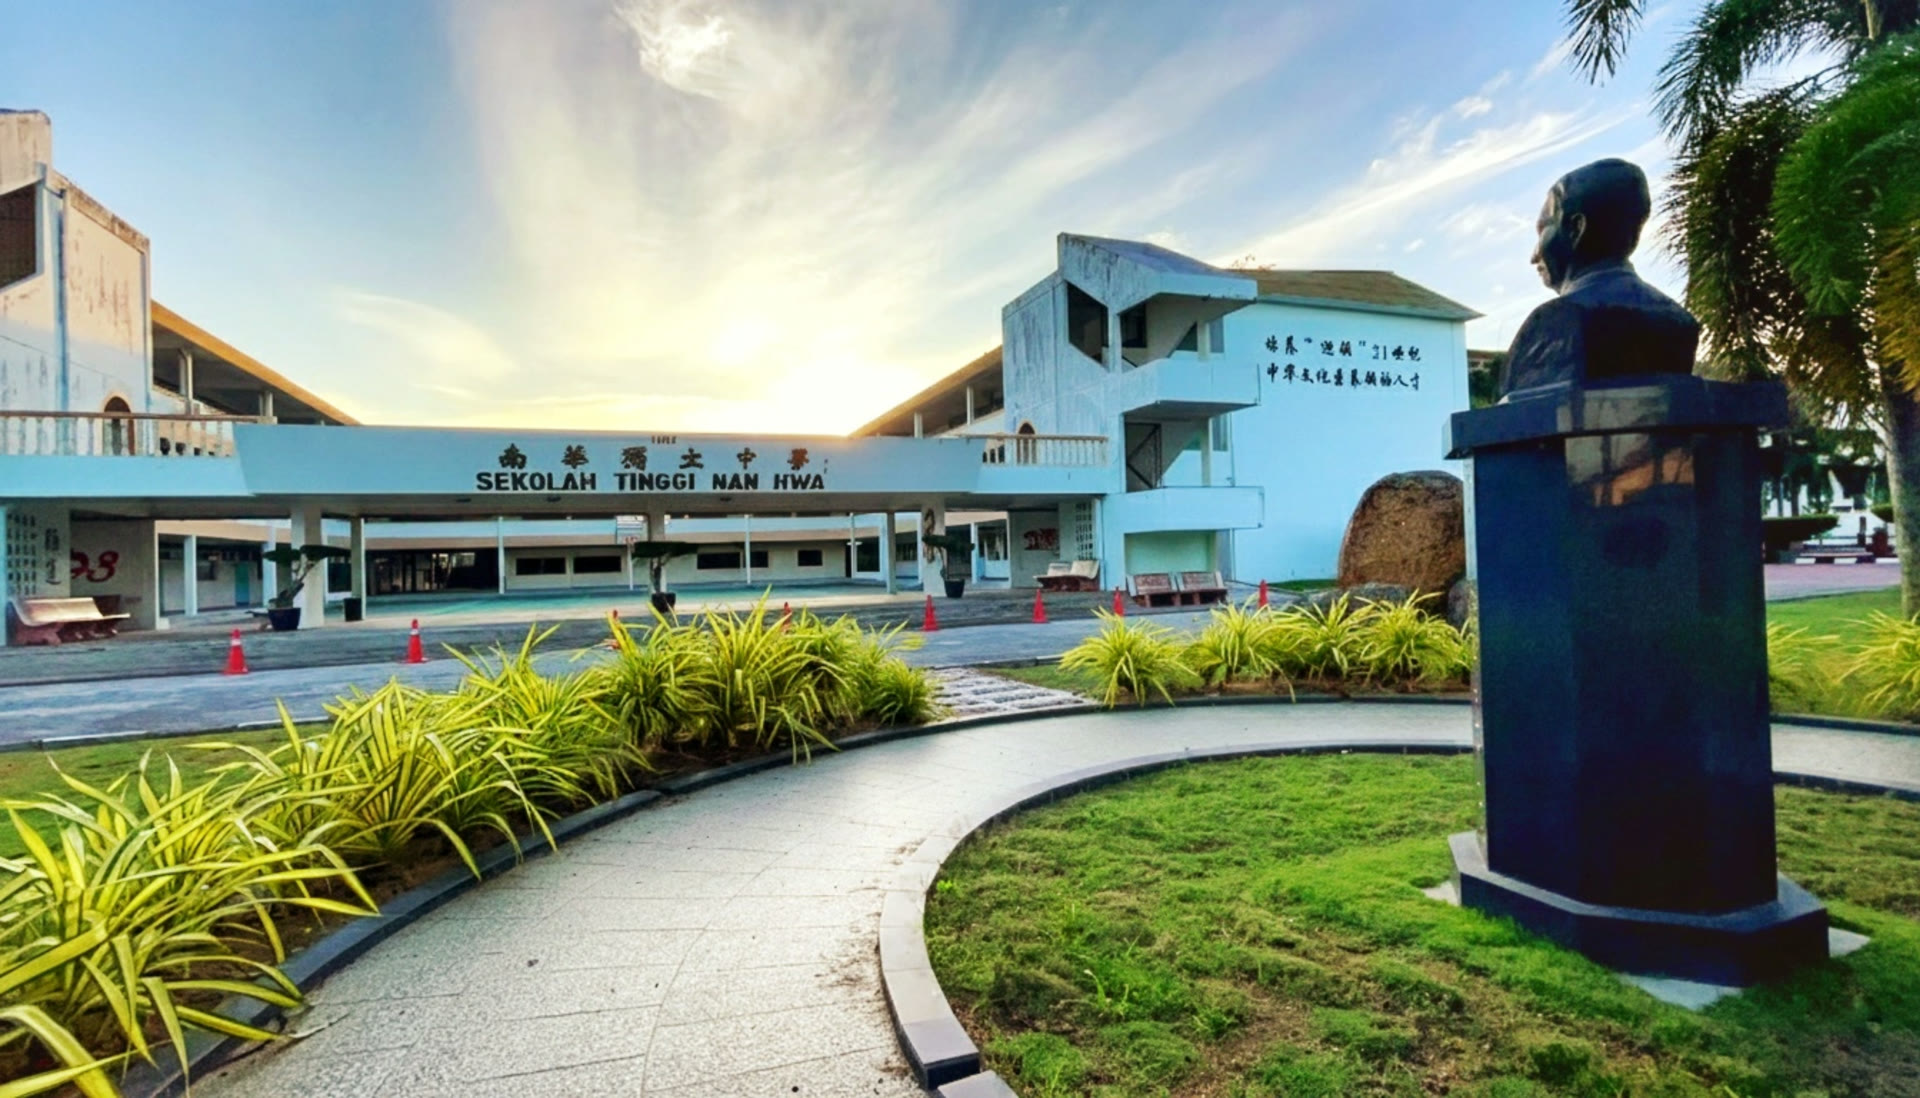
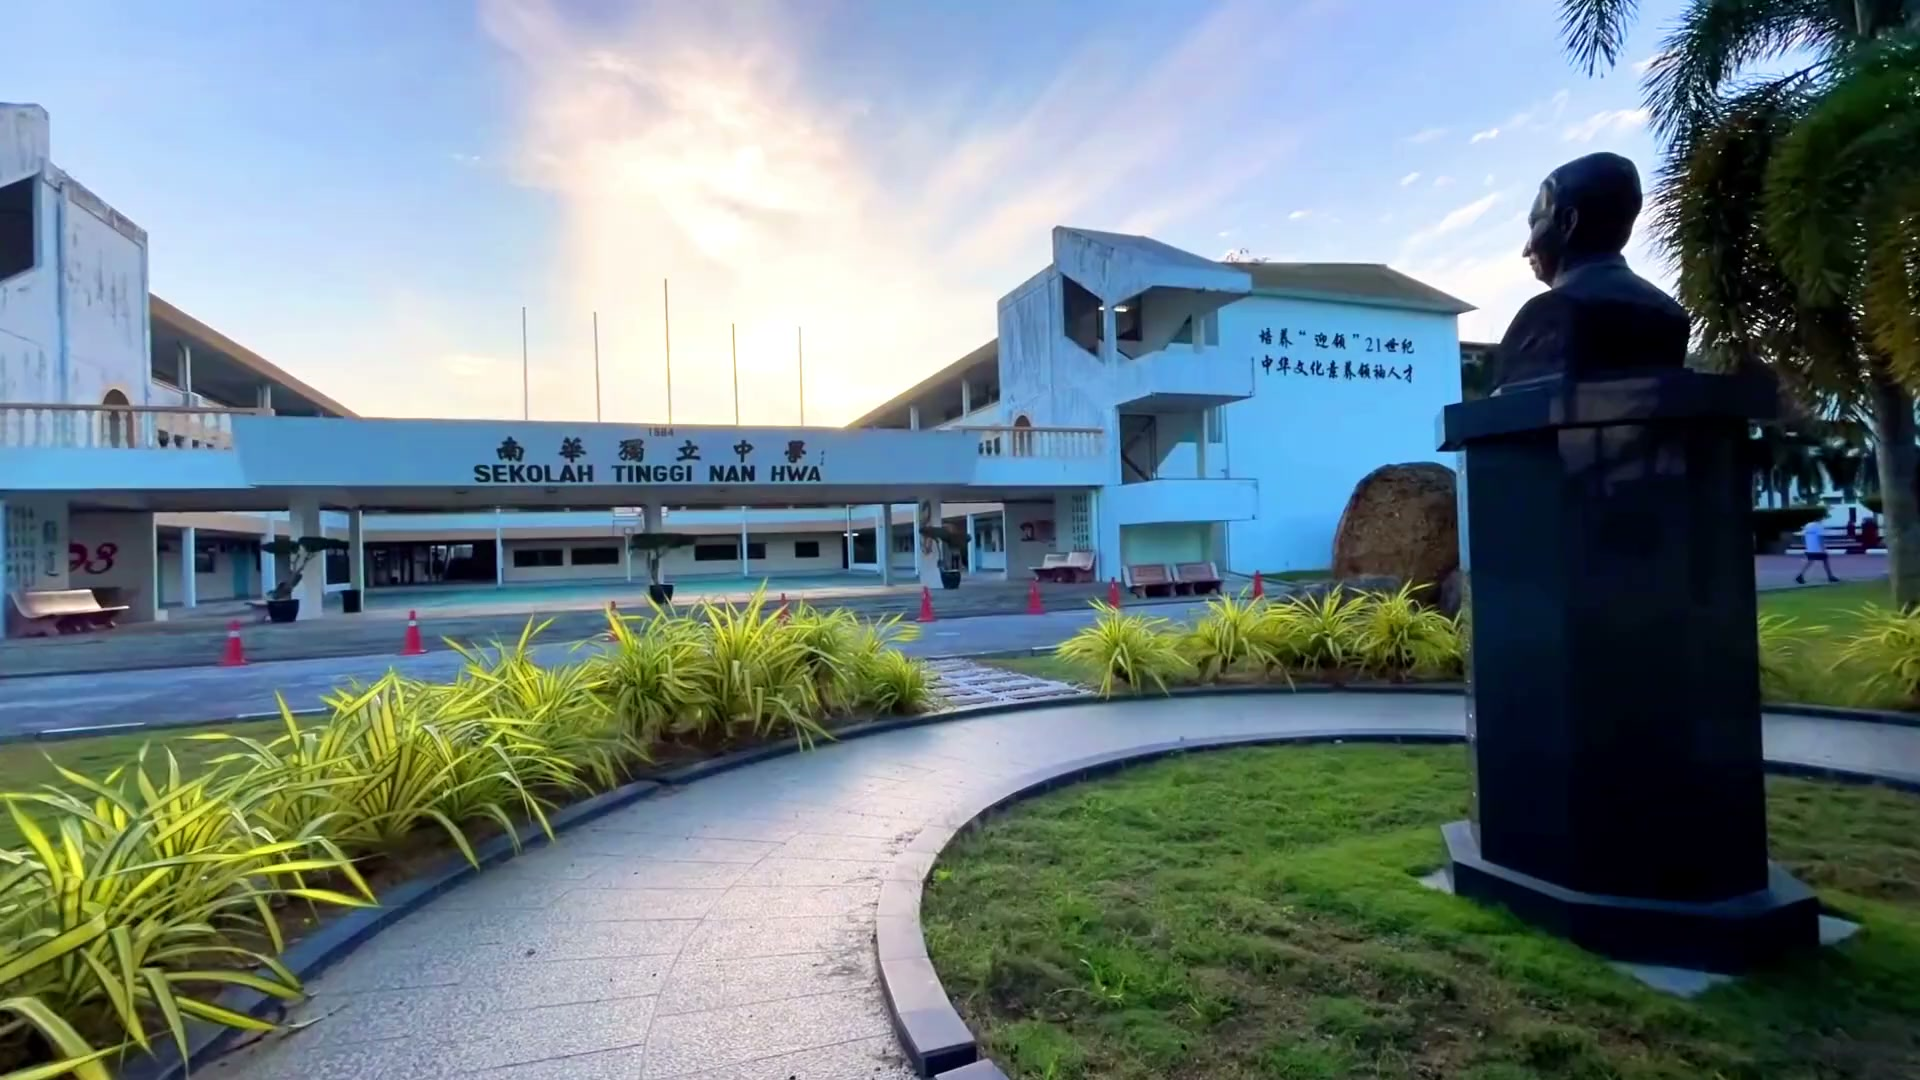
Hero 第四轮定稿：第四版防抖调色视频 + 90徽标 + impeccable 审改
- 视频换第四版素材（CRF27/25fps/去音轨/4.95MB），poster 同步重生成
- 循环转场改单video渐暗2.4s-黑场-从头重播，弃双video交叉淡入
- 彩绘90徽标抠图进顶栏（黑底转透明），冗余文字pill删除
- 减法：kicker灰框删除；报读资讯改磨砂芥末黄钮居报名左侧；门标签5格，南华春秋改指history/
- impeccable polish：玻璃统一blur14、文案区与门轨左缘对齐、动效降噪、正文≥14px、h1光晕减半
- .impeccable/ 审查档案不入仓

diff --git a/index.html b/index.html
@@ -33,6 +33,10 @@ img { max-width:100%; display:block; }
 .hero .scrim { position:absolute; inset:0; pointer-events:none;
   background:linear-gradient(to top, rgba(6,16,10,.82) 0%, rgba(6,16,10,.34) 34%, rgba(6,16,10,.06) 58%, rgba(6,16,10,.3) 100%); }
 #dust { position:absolute; inset:0; width:100%; height:100%; z-index:4; pointer-events:none; }
+/* 循环转场：片尾渐渐暗下来，黑场停一拍，再从头天亮（用户裁决：拉长转场，别紧凑倒带） */
+.hero .fade { position:absolute; inset:0; z-index:3; background:#06100a; opacity:0;
+  pointer-events:none; transition:opacity 2.4s ease; }
+.hero .fade.on { opacity:1; }
 
 .topbar { position:absolute; top:0; left:0; right:0; z-index:6;
   display:flex; align-items:center; justify-content:space-between;
@@ -43,70 +47,54 @@ img { max-width:100%; display:block; }
 .brand b { font-family:var(--serif); font-weight:700; font-size:1.22rem; letter-spacing:.08em;
   text-shadow:0 1px 8px rgba(0,0,0,.55); }
 .brand small { font-size:.72rem; letter-spacing:.22em; color:#d7eadf; opacity:.85; }
-/* 导航加雾面底座提高存在感（用户反馈：顶部的字容易被忽略） */
-.topbar nav { display:flex; gap:1.5rem; align-items:center; padding:.5rem 1.4rem; border-radius:999px;
-  background:rgba(6,16,10,.42); backdrop-filter:blur(14px); -webkit-backdrop-filter:blur(14px);
-  border:1px solid rgba(255,255,255,.2); box-shadow:inset 0 1px 0 rgba(255,255,255,.16); }
-.topbar nav a { color:#fff; font-size:1.02rem; font-weight:600; text-decoration:none;
-  text-shadow:0 1px 6px rgba(0,0,0,.55); padding-bottom:2px; }
-.topbar nav a:hover { border-bottom:2px solid var(--green); }
-a.badge90 { border:1px solid rgba(232,184,75,.7); color:var(--gold); font-size:.82rem; font-weight:700;
-  padding:.32rem .9rem; border-radius:999px; letter-spacing:.14em; text-shadow:none;
-  background:rgba(232,184,75,.12); transition:background .2s ease; }
-a.badge90:hover { background:rgba(232,184,75,.28); border-bottom:none; }
+.topbar nav { display:flex; gap:1.6rem; align-items:center; }
+.logo90 img { height:58px; width:auto; filter:drop-shadow(0 2px 8px rgba(0,0,0,.5));
+  transition:transform .2s ease; }
+.logo90:hover img { transform:scale(1.06); }
 
 .hero .content { position:absolute; z-index:5; left:0; right:0;
   bottom:clamp(8.5rem, 20vh, 12rem);
-  padding:0 clamp(1.2rem,5vw,4.5rem); max-width:1180px; }
-.kicker { display:inline-flex; flex-wrap:wrap; align-items:baseline; column-gap:.9em; row-gap:.3em;
-  font-family:var(--serif); font-weight:600;
-  font-size:clamp(.78rem, .6rem + .55vw, .95rem); letter-spacing:.22em; color:#eef7f1;
-  margin-bottom:1.2rem; text-shadow:0 1px 6px rgba(0,0,0,.6);
-  padding:.45em 1.1em .45em 1.2em; border-radius:999px;
-  background:rgba(6,16,10,.38); backdrop-filter:blur(12px); -webkit-backdrop-filter:blur(12px);
-  border:1px solid rgba(255,255,255,.18); box-shadow:inset 0 1px 0 rgba(255,255,255,.16); }
-.kicker span { white-space:nowrap; }
-.kicker .dot { color:var(--gold); letter-spacing:0; }
-.kicker em { font-style:normal; color:var(--gold); }
+  padding:0 clamp(1rem,3vw,2.6rem); max-width:1180px; }
+/* 左内容块：再缩一档（100% 时覆盖层仍偏大；kicker 灰框已按减法裁决删除） */
 .hero h1 { font-family:var(--serif); font-weight:900;
-  font-size:clamp(2.3rem, 6vw, 4.6rem); line-height:1.22; letter-spacing:.03em;
-  text-shadow:0 2px 20px rgba(0,0,0,.55), 0 0 26px rgba(255,244,214,.4); }
+  font-size:clamp(1.35rem, 2.4vw, 2rem); line-height:1.3; letter-spacing:.03em;
+  text-shadow:0 1px 10px rgba(0,0,0,.55), 0 0 14px rgba(255,244,214,.35); }
 .hero h1 .light { color:var(--gold);
-  text-shadow:0 2px 20px rgba(0,0,0,.5), 0 0 30px rgba(232,184,75,.6); }
-/* 副文案：雾面半透明金边框面板（用户反馈：直接压在视频上不易读） */
-.hero .sub { margin-top:1.15rem; font-size:clamp(.92rem, .8rem + .5vw, 1.08rem); color:#f4f0e5;
-  max-width:34em; line-height:2; padding:.9rem 1.3rem; border-radius:1rem;
-  background:rgba(6,16,10,.46); backdrop-filter:blur(14px); -webkit-backdrop-filter:blur(14px);
-  border:1px solid rgba(232,184,75,.42); box-shadow:inset 0 1px 0 rgba(255,255,255,.14);
-  text-shadow:0 1px 8px rgba(0,0,0,.5); }
-.hero .cta { margin-top:1.7rem; display:flex; gap:.9rem; flex-wrap:wrap; }
-.btn { display:inline-block; padding:.78rem 1.9rem; border-radius:999px; font-weight:700; font-size:.98rem;
+  text-shadow:0 1px 10px rgba(0,0,0,.5), 0 0 16px rgba(232,184,75,.55); }
+/* 副文案：衬线体+纯文字阴影（用户裁决：默认黑体太一般；不加面板）。下限 14px 可读性地板 */
+.hero .sub { margin-top:.8rem; font-family:var(--serif); font-weight:600;
+  font-size:clamp(.875rem, .82rem + .2vw, .95rem); color:#f0ece1;
+  max-width:36em; line-height:1.9;
+  text-shadow:0 1px 3px rgba(0,0,0,.85), 0 2px 14px rgba(0,0,0,.6); }
+.hero .cta { margin-top:1rem; display:flex; gap:.7rem; flex-wrap:wrap; }
+.btn { display:inline-block; padding:.55rem 1.35rem; border-radius:999px; font-weight:700; font-size:.875rem;
   text-decoration:none; backdrop-filter:blur(14px); -webkit-backdrop-filter:blur(14px);
   transition:transform .18s ease, background .18s ease; }
 .btn:hover { transform:translateY(-2px); }
-.btn-solid { background:rgba(62,179,112,.8); color:#fff; border:1px solid rgba(255,255,255,.28);
-  box-shadow:0 6px 22px rgba(62,179,112,.32), inset 0 1px 0 rgba(255,255,255,.4); }
-.btn-solid:hover { background:rgba(46,144,89,.92); }
-.btn-line { border:1px solid rgba(255,255,255,.45); color:#fff; background:rgba(255,255,255,.08);
-  box-shadow:inset 0 1px 0 rgba(255,255,255,.35); }
-.btn-line:hover { background:rgba(255,255,255,.16); }
+/* 两钮回归半透明磨砂质感（用户裁决：实色块最突兀难看） */
+.btn-solid { background:rgba(62,179,112,.5); color:#fff; border:1px solid rgba(255,255,255,.35);
+  box-shadow:inset 0 1px 0 rgba(255,255,255,.3); text-shadow:0 1px 4px rgba(0,0,0,.35); }
+.btn-solid:hover { background:rgba(62,179,112,.72); }
+.btn-mustard { background:rgba(212,164,38,.32); color:#ffedbe; border:1px solid rgba(232,184,75,.6);
+  box-shadow:inset 0 1px 0 rgba(255,255,255,.3); text-shadow:0 1px 4px rgba(0,0,0,.4); }
+.btn-mustard:hover { background:rgba(212,164,38,.52); color:#fff6dd; }
 
 /* 五个文件夹标签：微微冒头，靠近才升起 */
 .doors { position:absolute; z-index:5; left:0; right:0; bottom:0;
   display:grid; grid-template-columns:repeat(5, 1fr); gap:.6rem; align-items:end;
-  padding:0 clamp(.8rem, 2vw, 2rem); }
+  padding:0 clamp(1rem, 3vw, 2.6rem); }
 .door { --peek:3.3rem; display:block; color:#fff; overflow:hidden; text-decoration:none;
   border-radius:.9rem .9rem 0 0;
-  background:rgba(8,20,13,.55); backdrop-filter:blur(16px); -webkit-backdrop-filter:blur(16px);
-  border:1px solid rgba(255,255,255,.16); border-bottom:none;
+  background:rgba(8,20,13,.5); backdrop-filter:blur(14px); -webkit-backdrop-filter:blur(14px);
+  border:1px solid rgba(255,255,255,.18); border-bottom:none;
   box-shadow:inset 0 1px 0 rgba(255,255,255,.18);
   padding:.95rem 1.15rem 1.15rem;
   transform:translateY(calc(100% - var(--peek)));
   transition:transform .38s cubic-bezier(.22,.8,.3,1), background .3s ease;
-  animation:doorBreath 5s ease-in-out infinite; }
+  animation:doorBreath 7s ease-in-out infinite; }
 @keyframes doorBreath {
   0%, 100% { transform:translateY(calc(100% - var(--peek))); filter:brightness(1); }
-  50% { transform:translateY(calc(100% - var(--peek) - .5rem)); filter:brightness(1.35); }
+  50% { transform:translateY(calc(100% - var(--peek) - .3rem)); filter:brightness(1.15); }
 }
 .door:nth-child(2) { animation-delay:.55s; }
 .door:nth-child(3) { animation-delay:1.1s; }
@@ -127,12 +115,12 @@ a.badge90:hover { background:rgba(232,184,75,.28); border-bottom:none; }
 }
 @media (max-width:760px) {
   .topbar { padding:.9rem 1.1rem; }
-  .topbar nav { gap:0; padding:0; background:none; border:none; box-shadow:none; }
-  .topbar nav a:not(.badge90) { display:none; }
   .brand img { height:38px; }
+  .logo90 img { height:44px; }
   .hero .content { bottom:clamp(11rem, 30vh, 14rem); }
   .doors { grid-template-columns:1fr 1fr; gap:.45rem; padding:0 .6rem; }
   .door { transform:none; animation:none; padding:.75rem .9rem; border-radius:.7rem .7rem 0 0; }
+  .door:last-child { grid-column:1 / -1; }
   .door span { display:none; }
 }
 @media (prefers-reduced-motion: reduce) {
@@ -202,10 +190,8 @@ footer .copy { text-align:center; padding:1rem; border-top:1px solid #444; font-
   <video id="dawn" autoplay muted playsinline preload="auto" poster="assets/img/dawn-poster.jpg">
     <source src="assets/video/dawn-hero.mp4" type="video/mp4">
   </video>
-  <video id="dawn2" muted playsinline preload="auto" style="opacity:0" aria-hidden="true">
-    <source src="assets/video/dawn-hero.mp4" type="video/mp4">
-  </video>
   <div class="scrim"></div>
+  <div class="fade" id="fade"></div>
   <canvas id="dust"></canvas>
 
   <header class="topbar">
@@ -214,28 +200,20 @@ footer .copy { text-align:center; padding:1rem; border-top:1px solid #444; font-
       <span class="name"><b>南华独立中学</b><small>NAN HWA HIGH SCHOOL</small></span>
     </div>
     <nav>
-      <a href="admission/index.html">招生专区</a>
-      <a href="news/index.html">新闻动态</a>
-      <a href="#contact">联系我们</a>
-      <a class="badge90" href="90/index.html" title="九十周年校庆专页">1936 · 九十周年</a>
+      <a class="logo90" href="90/index.html" title="1936 · 九十周年校庆专页"><img src="assets/img/logo90.png" alt="90 周年徽标 · 九十年风雨兼程，育见百年"></a>
     </nav>
   </header>
 
   <div class="content">
-    <p class="kicker"><span>霹雳曼绒</span><span class="dot">·</span><span>五星级卓越独中</span><span class="dot">·</span><span>创立于 <em>1936</em> 年</span></p>
     <h1>一束照耀<span class="light">九十载</span>的光</h1>
     <p class="sub">自1936年曼绒先贤点燃的华教灯火，直至今日工艺楼、技职教育大楼、中国茶文化馆等的设立，九十载光阴，南华独中只做一件事：帮助每一位孩子，找到属于自己的光。</p>
     <div class="cta">
+      <a class="btn btn-mustard" href="admission/index.html">了解报读资讯</a>
       <a class="btn btn-solid" href="https://nanhwa.eschool.edu.my/newreg/" target="_blank" rel="noopener">线上报名</a>
-      <a class="btn btn-line" href="#story">走进南华</a>
     </div>
   </div>
 
   <nav class="doors" aria-label="快速入口">
-    <a class="door" href="admission/index.html">
-      <b>了解报读资讯</b>
-      <span>招生对象 · 报名流程 · 六项奖助学金</span>
-    </a>
     <a class="door" href="#learn">
       <b>认识南华</b>
       <span>校本课程 · 技职选修 · AI 创客空间</span>
@@ -244,13 +222,17 @@ footer .copy { text-align:center; padding:1rem; border-top:1px solid #444; font-
       <b>师资团队</b>
       <span>与孩子同行的点灯人</span>
     </a>
-    <a class="door" href="90/index.html">
+    <a class="door" href="history/index.html">
       <b>南华春秋</b>
-      <span>一部从 1936 年写起的校史</span>
+      <span>一部从胶林里写起的校史</span>
     </a>
     <a class="door" href="news/index.html">
       <b>每日南华</b>
       <span>1,198 篇校园纪事，仍在继续</span>
+    </a>
+    <a class="door" href="#contact">
+      <b>联系我们</b>
+      <span>电话 · WhatsApp · 邮箱 · 校址</span>
     </a>
   </nav>
 </div>
@@ -386,38 +368,23 @@ footer .copy { text-align:center; padding:1rem; border-top:1px solid #444; font-
 </footer>
 
 <script>
-// 晨曦播一次到破晓满光，之后无缝循环最后 6 秒（云与棕榈持续飘动，太阳不重升）
-// 手法：双 video 交叉淡入，接缝藏在 700ms 淡入淡出里
+// 循环转场：片尾 2.4 秒渐渐暗下来 → 黑场停一拍 → 从头再天亮一轮
 const reduced = matchMedia('(prefers-reduced-motion: reduce)').matches;
-const vA = document.getElementById('dawn'), vB = document.getElementById('dawn2');
-if (reduced) { vA.removeAttribute('autoplay'); vA.pause(); vB.remove(); }
-else (function(){
-  const TAIL = 6, XF = 700; // 循环尾段秒数 / 交叉淡入毫秒
-  let cur = vA, nxt = vB, switching = false;
-  function fade(el, target){
-    const from = parseFloat(el.style.opacity === '' ? 1 : el.style.opacity);
-    const t0 = performance.now();
-    (function step(now){
-      const p = Math.min(1, (now - t0) / XF);
-      el.style.opacity = from + (target - from) * p;
-      if (p < 1) requestAnimationFrame(step);
-    })(t0);
-  }
-  function arm(v){
-    v.addEventListener('timeupdate', () => {
-      if (switching || v !== cur || !v.duration) return;
-      if (v.duration - v.currentTime <= XF/1000 + 0.1) {
-        switching = true;
-        nxt.currentTime = Math.max(0, v.duration - TAIL);
-        nxt.play().then(() => {
-          fade(nxt, 1); fade(cur, 0);
-          setTimeout(() => { cur.pause(); [cur, nxt] = [nxt, cur]; switching = false; }, XF + 80);
-        }).catch(() => { switching = false; });
-      }
-    });
-  }
-  arm(vA); arm(vB);
-})();
+const vid = document.getElementById('dawn'), fadeEl = document.getElementById('fade');
+if (reduced) { vid.removeAttribute('autoplay'); vid.pause(); }
+else {
+  const FADE = 2.4, HOLD = 600; // 渐暗秒数 / 黑场停留毫秒
+  vid.addEventListener('timeupdate', () => {
+    if (vid.duration && vid.duration - vid.currentTime <= FADE) fadeEl.classList.add('on');
+  });
+  vid.addEventListener('ended', () => {
+    setTimeout(() => {
+      vid.currentTime = 0;
+      vid.play().catch(() => {});
+      fadeEl.classList.remove('on'); // 新一轮晨曦在 2.4s 里渐渐亮回来
+    }, HOLD);
+  });
+}
 
 // 定格后画面不死：金色微尘缓浮 + 明灭闪烁
 if (!reduced) (function(){
@@ -425,10 +392,10 @@ if (!reduced) (function(){
   let w, h, ps;
   function reset(){
     w = c.width = c.clientWidth; h = c.height = c.clientHeight;
-    ps = Array.from({length:36}, () => ({
+    ps = Array.from({length:24}, () => ({
       x:Math.random()*w, y:Math.random()*h,
       r:.6+Math.random()*1.5, vy:.08+Math.random()*.22, vx:(Math.random()-.5)*.06,
-      a:.25+Math.random()*.45, ph:Math.random()*Math.PI*2, f:.4+Math.random()*.8,
+      a:.18+Math.random()*.35, ph:Math.random()*Math.PI*2, f:.4+Math.random()*.8,
       gold:Math.random()<.7
     }));
   }